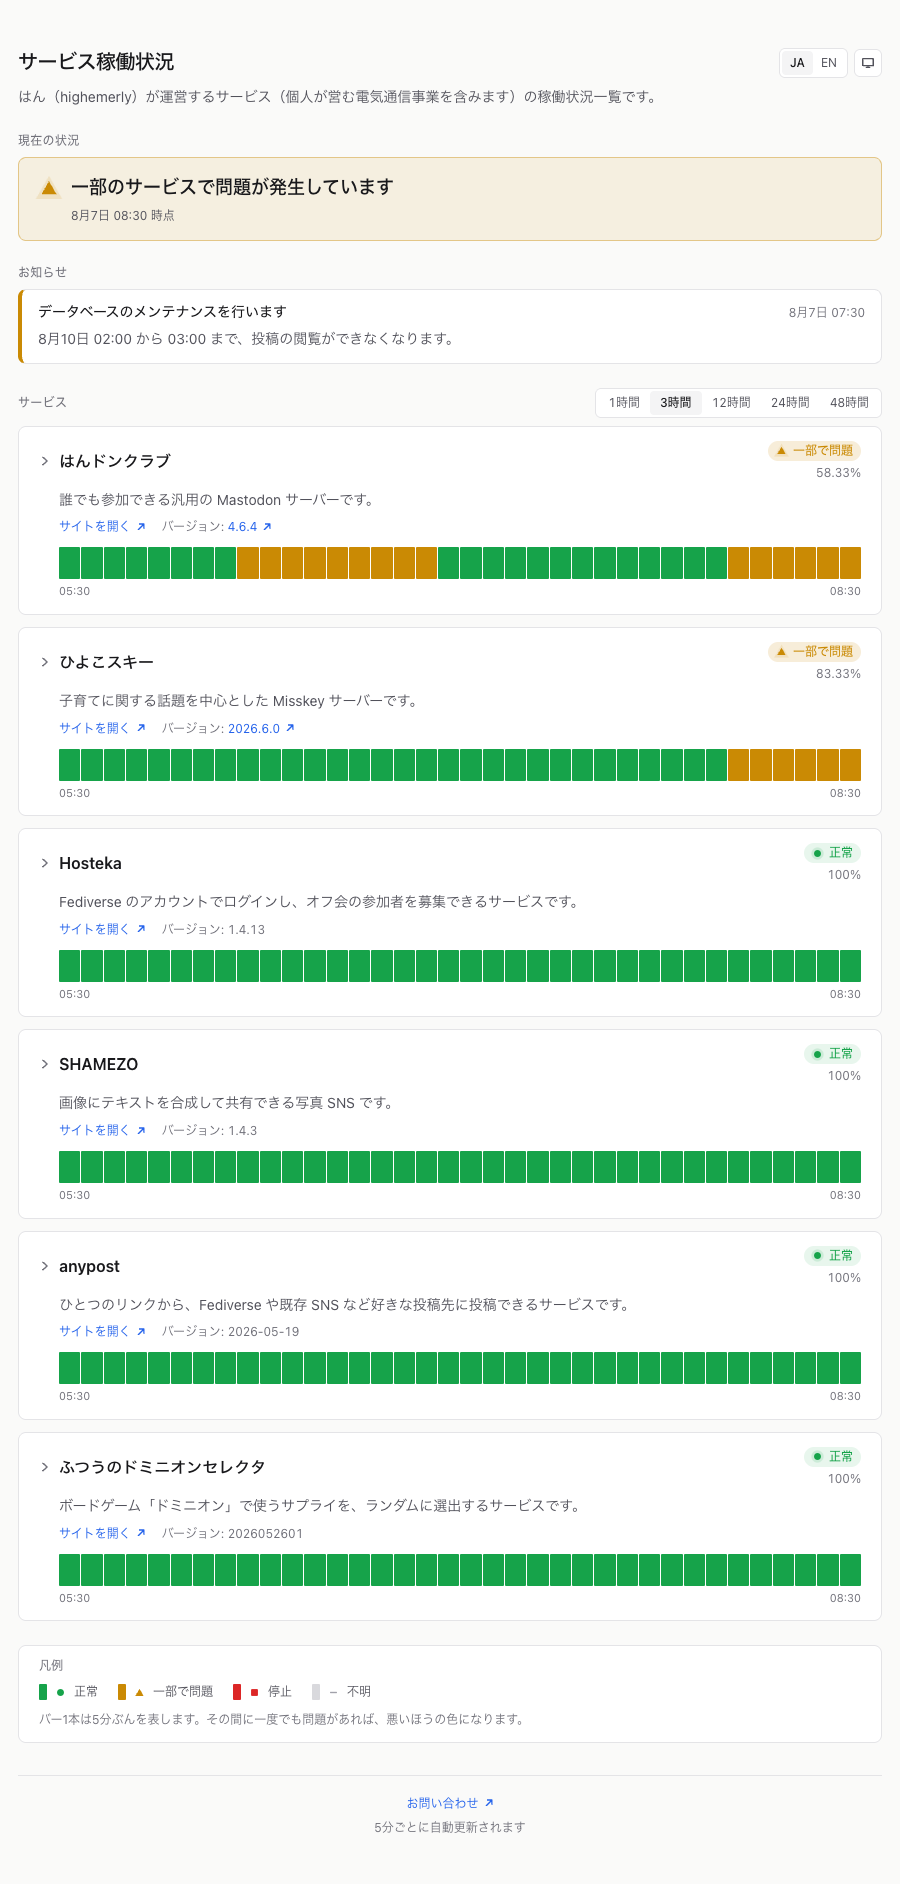
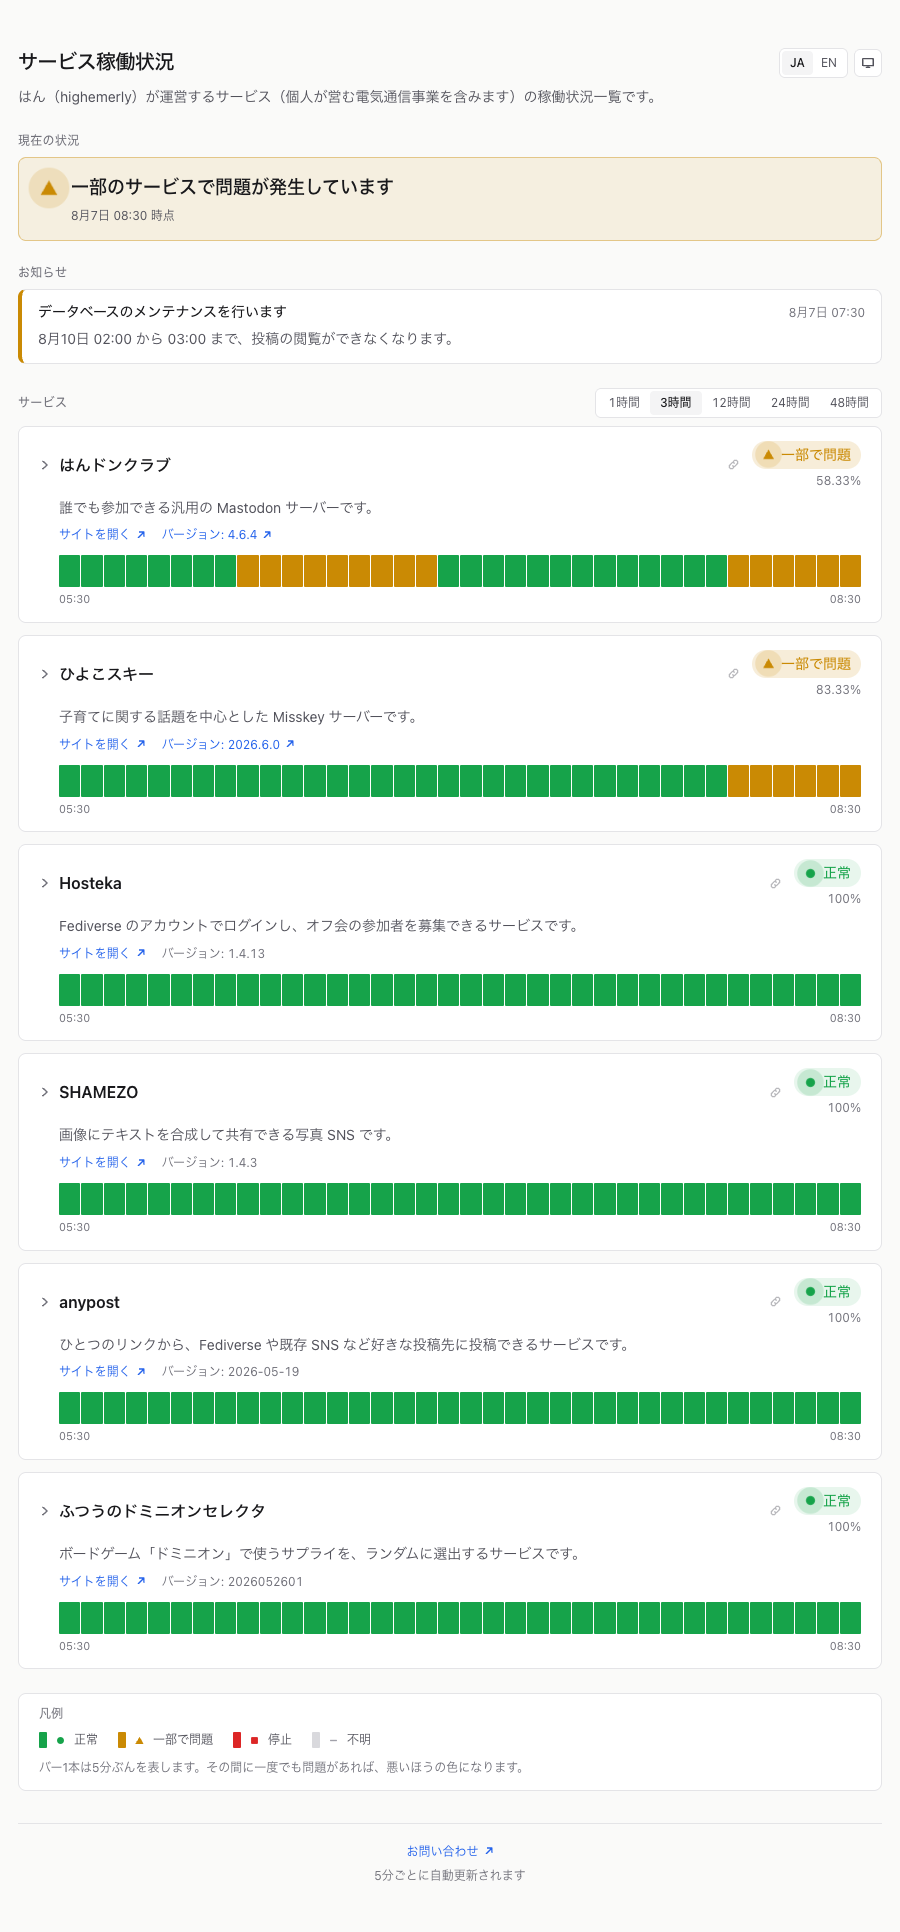
feat: ページ内リンクと脈動の見直し
- カテゴリごとに id を付与し、#handon-club のような URL で個別に参照できるようにした
  ハッシュ付きで開いた場合はそのサービスを展開した状態で表示する。
  データ取得後に描画するためブラウザ標準のハッシュ移動が空振りするので、
  マウント後に自前でスクロールさせる。hashchange にも追従する
- サービス名の右にリンク取得用のアイコンを追加
- 脈動が見えていなかったのを修正
  輪の色がバッジの淡い背景と同系で埋もれていたため、不透明な地色に変更し
  開始不透明度を 0.45 -> 0.7、拡大率を 2.1 -> 2.4 に。
  本体側にもわずかな伸縮を重ねた
- ステータスバッジの文字を text-xs -> text-sm に拡大
- バージョンはラベルごとリンクにした（数字だけが青いと押せる範囲が不明瞭）

#hosteka で直接アクセスすると当該カテゴリのみ展開されること、
ページ内リンクのクリックでも展開されること、
prefers-reduced-motion: reduce で停止することを確認済み。

diff --git a/components/CategoryCard.tsx b/components/CategoryCard.tsx
@@ -1,6 +1,6 @@
 'use client';
 
-import { useMemo, useState } from 'react';
+import { useEffect, useMemo, useRef, useState } from 'react';
 import { ServiceRow } from './ServiceRow';
 import { StatusBadge } from './StatusBadge';
 import { Timeline } from './Timeline';
@@ -28,6 +28,24 @@ function ExternalIcon() {
   );
 }
 
+function LinkIcon() {
+  return (
+    <svg
+      viewBox="0 0 16 16"
+      width="13"
+      height="13"
+      fill="none"
+      stroke="currentColor"
+      strokeWidth="1.6"
+      strokeLinecap="round"
+      aria-hidden="true"
+    >
+      <path d="M6.5 9.5a2.8 2.8 0 0 0 4 0l2-2a2.8 2.8 0 0 0-4-4l-1 1" />
+      <path d="M9.5 6.5a2.8 2.8 0 0 0-4 0l-2 2a2.8 2.8 0 0 0 4 4l1-1" />
+    </svg>
+  );
+}
+
 export function CategoryCard({
   category,
   services,
@@ -47,6 +65,25 @@ export function CategoryCard({
 }) {
   // 一覧性を優先し、既定は閉じた状態。コンポーネント単位の内訳は開いたときだけ出す
   const [expanded, setExpanded] = useState(false);
+  const ref = useRef<HTMLElement>(null);
+
+  /*
+   * #handon-club のような指定で来たときは、そのサービスを開いた状態で見せる。
+   *
+   * データを取得してから描画するので、ブラウザ標準のハッシュ移動は
+   * 対象がまだ存在せず空振りする。マウント後に自分でスクロールさせる。
+   */
+  useEffect(() => {
+    const apply = () => {
+      if (decodeURIComponent(window.location.hash.slice(1)) !== category.id) return;
+      setExpanded(true);
+      ref.current?.scrollIntoView({ block: 'start' });
+    };
+
+    apply();
+    window.addEventListener('hashchange', apply);
+    return () => window.removeEventListener('hashchange', apply);
+  }, [category.id]);
 
   const status = overallStatus(
     services.map((s) => payload.services[s.id]?.status ?? 'unknown')
@@ -63,34 +100,50 @@ export function CategoryCard({
   const description = localized(category.description, lang);
 
   return (
-    <section className="overflow-hidden rounded-lg border border-line bg-surface">
+    <section
+      id={category.id}
+      ref={ref}
+      className="group scroll-mt-6 overflow-hidden rounded-lg border border-line bg-surface"
+    >
       <div className="px-4 py-3.5 sm:px-5">
-        <button
-          type="button"
-          onClick={() => setExpanded((open) => !open)}
-          aria-expanded={expanded}
-          className="flex w-full items-center gap-2 rounded text-left"
-        >
-          <svg
-            viewBox="0 0 16 16"
-            width="12"
-            height="12"
-            fill="none"
-            stroke="currentColor"
-            strokeWidth="2"
-            strokeLinecap="round"
-            strokeLinejoin="round"
-            aria-hidden="true"
-            className={`shrink-0 text-fg-subtle transition-transform ${
-              expanded ? 'rotate-90' : ''
-            }`}
+        <div className="flex items-center gap-2">
+          <button
+            type="button"
+            onClick={() => setExpanded((open) => !open)}
+            aria-expanded={expanded}
+            className="flex min-w-0 flex-1 items-center gap-2 rounded text-left"
           >
-            <path d="m5 3 6 5-6 5" />
-          </svg>
+            <svg
+              viewBox="0 0 16 16"
+              width="12"
+              height="12"
+              fill="none"
+              stroke="currentColor"
+              strokeWidth="2"
+              strokeLinecap="round"
+              strokeLinejoin="round"
+              aria-hidden="true"
+              className={`shrink-0 text-fg-subtle transition-transform ${
+                expanded ? 'rotate-90' : ''
+              }`}
+            >
+              <path d="m5 3 6 5-6 5" />
+            </svg>
 
-          <h3 className="min-w-0 flex-1 truncate text-base font-semibold">
-            {localized(category.name, lang)}
-          </h3>
+            <h3 className="min-w-0 truncate text-base font-semibold">
+              {localized(category.name, lang)}
+            </h3>
+          </button>
+
+          {/* このサービスだけを指す URL を作れるようにする */}
+          <a
+            href={`#${category.id}`}
+            title={dict.anchorLabel}
+            aria-label={dict.anchorLabel}
+            className="shrink-0 rounded p-1 text-fg-subtle/50 transition-colors hover:text-accent"
+          >
+            <LinkIcon />
+          </a>
 
           {/* 状態と稼働率は行を分ける。並べると数字がどちらの値か読み取りにくい */}
           <span className="flex shrink-0 flex-col items-end gap-1">
@@ -101,7 +154,7 @@ export function CategoryCard({
               </span>
             )}
           </span>
-        </button>
+        </div>
 
         {description && (
           <p className="mt-2 pl-5 text-sm leading-relaxed text-fg-muted">
@@ -126,28 +179,26 @@ export function CategoryCard({
             </a>
           )}
 
-          {/* 数字だけ置くと何の値か分からないので、必ずラベルを付ける */}
-          {version && (
-            <span className="text-xs text-fg-subtle">
-              {dict.version}:{' '}
-              {version.release ? (
-                <a
-                  href={version.release.url}
-                  target="_blank"
-                  rel="noopener noreferrer"
-                  title={`${dict.releaseNotes}（${version.imageTag}）`}
-                  className="inline-flex items-center gap-1 rounded tabular-nums text-accent hover:underline"
-                >
-                  {version.version}
-                  <ExternalIcon />
-                </a>
-              ) : (
-                <span className="tabular-nums" title={version.imageTag}>
-                  {version.version}
+          {/* ラベルごとリンクにする。数字だけが青いと押せる範囲が分かりにくい */}
+          {version &&
+            (version.release ? (
+              <a
+                href={version.release.url}
+                target="_blank"
+                rel="noopener noreferrer"
+                title={`${dict.releaseNotes}（${version.imageTag}）`}
+                className="inline-flex items-center gap-1 rounded text-xs text-accent hover:underline"
+              >
+                <span className="tabular-nums">
+                  {dict.version}: {version.version}
                 </span>
-              )}
-            </span>
-          )}
+                <ExternalIcon />
+              </a>
+            ) : (
+              <span className="text-xs tabular-nums text-fg-subtle" title={version.imageTag}>
+                {dict.version}: {version.version}
+              </span>
+            ))}
         </div>
 
         <div className="mt-3 pl-5">

diff --git a/components/StatusBadge.tsx b/components/StatusBadge.tsx
@@ -9,24 +9,35 @@ const TONE: Record<ServiceStatus, string> = {
   unknown: 'bg-surface-raised text-fg-muted',
 };
 
+const DOT_COLOR: Record<ServiceStatus, string> = {
+  up: 'text-status-up',
+  degraded: 'text-status-degraded',
+  down: 'text-status-down',
+  unknown: 'text-status-unknown',
+};
+
 /**
  * ステータスの印。
  *
- * 同じ形をもう一枚重ねて広げながら消すことで、値が生きていることを示す。
+ * 輪が広がって消える動きと、本体のわずかな伸縮を重ねて、値が生きていることを示す。
+ * 輪はバッジの淡い背景より濃く出す。同系の薄さだと背景に埋もれて見えない。
  * 動きを減らす設定のブラウザでは globals.css 側で止まる。
  */
-export function LiveDot({ status, size = 11 }: { status: ServiceStatus; size?: number }) {
+export function LiveDot({ status, size = 12 }: { status: ServiceStatus; size?: number }) {
   return (
     <span
-      className="relative inline-flex shrink-0 items-center justify-center"
+      className={`relative inline-flex shrink-0 items-center justify-center ${DOT_COLOR[status]}`}
       style={{ width: size, height: size }}
     >
+      <span
+        className="absolute inset-0 animate-status-ping rounded-full bg-current"
+        aria-hidden="true"
+      />
       <StatusIcon
         status={status}
         size={size}
-        className="absolute inset-0 animate-status-ping"
+        className="relative animate-status-breathe"
       />
-      <StatusIcon status={status} size={size} className="relative" />
     </span>
   );
 }
@@ -45,10 +56,10 @@ export function StatusBadge({
   return (
     <span
       className={`inline-flex items-center gap-1.5 rounded-full font-medium ${TONE[status]} ${
-        large ? 'px-3 py-1 text-sm' : 'px-2 py-0.5 text-xs'
+        large ? 'px-3.5 py-1.5 text-base' : 'px-2.5 py-1 text-sm'
       }`}
     >
-      <LiveDot status={status} size={large ? 14 : 11} />
+      <LiveDot status={status} size={large ? 16 : 13} />
       {dict.status[status]}
     </span>
   );

diff --git a/tailwind.config.ts b/tailwind.config.ts
@@ -44,15 +44,20 @@ const config: Config = {
         page: '56rem',
       },
       // ステータス表示が「今この瞬間の値」であることを伝えるための脈動。
-      // 常時動くので、目障りにならないよう遅く・薄くしてある。
+      // 広がって消える輪と、本体のわずかな伸縮を重ねる。
       keyframes: {
         'status-ping': {
-          '0%': { transform: 'scale(1)', opacity: '0.45' },
-          '70%, 100%': { transform: 'scale(2.1)', opacity: '0' },
+          '0%': { transform: 'scale(0.85)', opacity: '0.7' },
+          '75%, 100%': { transform: 'scale(2.4)', opacity: '0' },
+        },
+        'status-breathe': {
+          '0%, 100%': { transform: 'scale(1)' },
+          '50%': { transform: 'scale(1.15)' },
         },
       },
       animation: {
-        'status-ping': 'status-ping 2.5s cubic-bezier(0, 0, 0.2, 1) infinite',
+        'status-ping': 'status-ping 2s cubic-bezier(0, 0, 0.2, 1) infinite',
+        'status-breathe': 'status-breathe 2s ease-in-out infinite',
       },
     },
   },

diff --git a/lib/i18n.ts b/lib/i18n.ts
@@ -10,6 +10,7 @@ const dict = {
     siteDescription:
       'はん（highemerly）が運営するサービス（個人が営む電気通信事業を含みます）の稼働状況一覧です。',
     contact: 'お問い合わせ',
+    anchorLabel: 'このサービスへのリンク',
     allOperational: 'すべてのサービスが正常に稼働しています',
     someDegraded: '一部のサービスで問題が発生しています',
     majorOutage: 'サービスに障害が発生しています',
@@ -54,6 +55,7 @@ const dict = {
     siteDescription:
       'Operational status of services run by Han (highemerly), including telecommunications services operated as an individual.',
     contact: 'Contact',
+    anchorLabel: 'Link to this service',
     allOperational: 'All services are operational',
     someDegraded: 'Some services are experiencing issues',
     majorOutage: 'Services are down',
